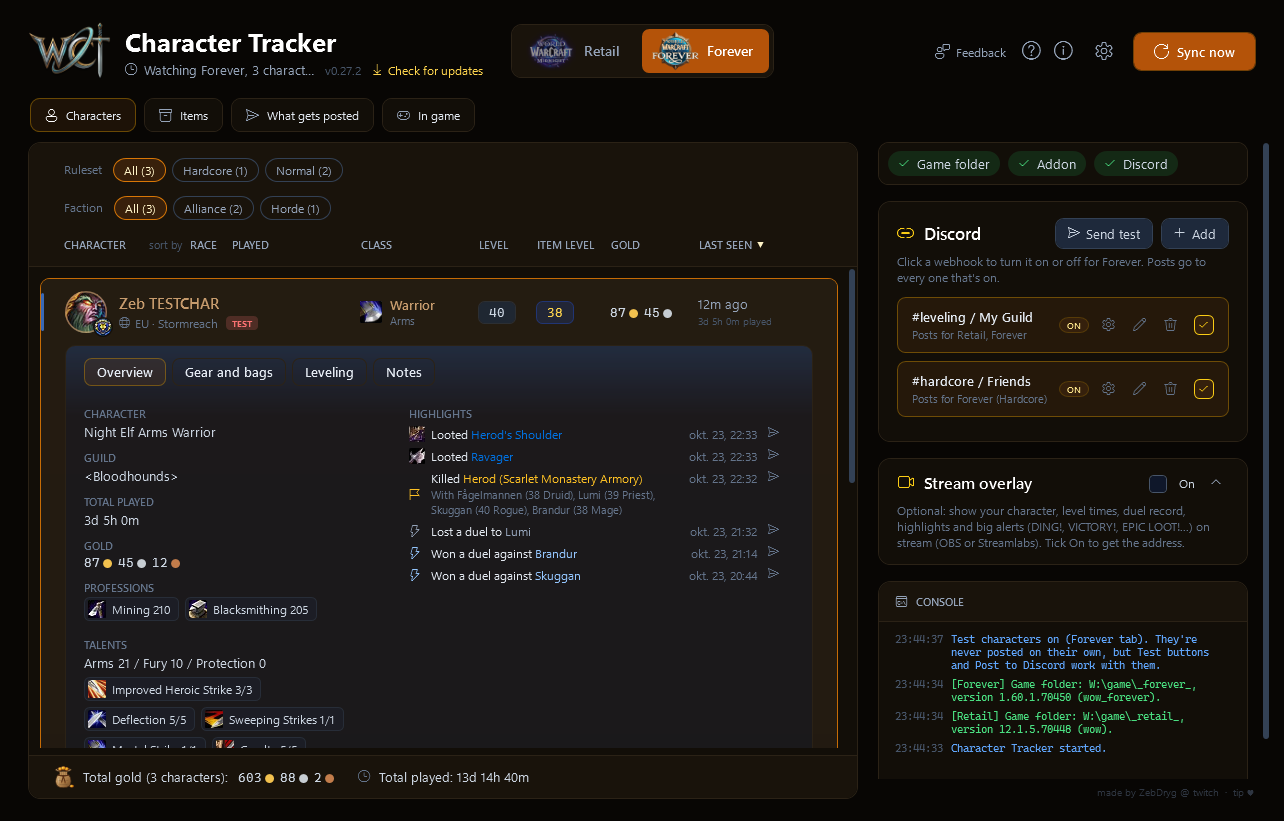
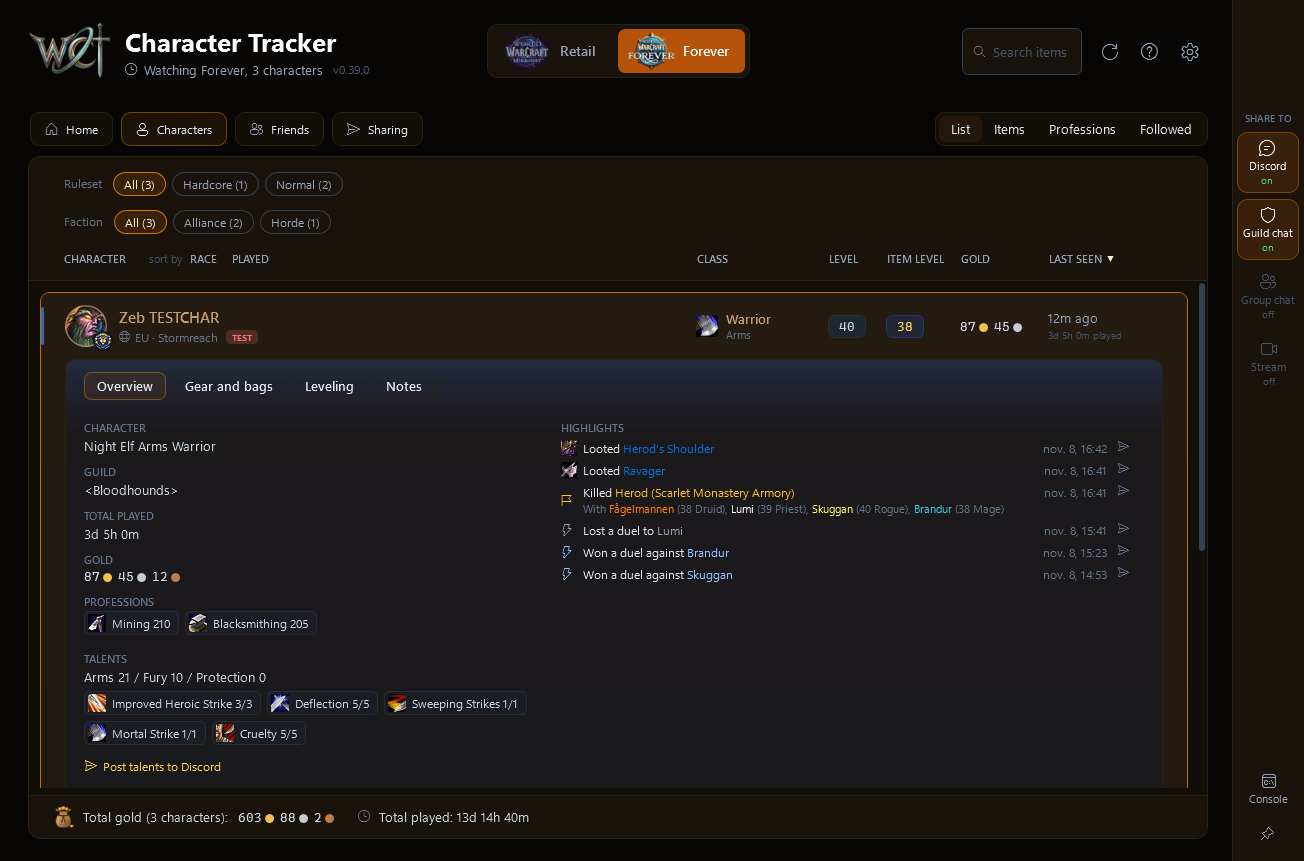
chore: release 0.39.0
App and addon to 0.39.0, with the changelog for the UX cleanup, dungeon
runs, asking friends for more and the 0.38.2 chat fix that never shipped
on its own. New guide pictures for Home, Sharing, Settings and the setup
helper, the rest retaken for the new layout, and the two pictures of the
old pages removed.

Claude-Session: 4ef4d2fd-667f-411a-965e-5164b0b2a70c

diff --git a/companion/WoWCharacterTracker/Ui/ScreenshotMode.cs b/companion/WoWCharacterTracker/Ui/ScreenshotMode.cs
@@ -39,7 +39,8 @@ static class ScreenshotMode
             if (Part(2) == "rename" && vm.Discord.Webhooks.FirstOrDefault() is { } w) w.IsEditing = true;
             if (Part(2) == "options" && vm.Discord.Webhooks.LastOrDefault() is { } o) o.IsExpanded = true;
             if (Part(2) == "removehook" && vm.Discord.Webhooks.FirstOrDefault() is { } rh) rh.ConfirmRemove = true;
-            if (Part(2) == "addhook") { vm.Discord.ShowAddWebhook = true; if (vm.SelectedFlavor is { } hooks) hooks.OpenPlace = "discord"; }
+            if (Part(2) == "addhook") vm.Discord.ShowAddWebhook = true;
+            if (Part(2) is "addhook" or "options" or "rename" or "removehook" && vm.SelectedFlavor is { } hooks) hooks.OpenPlace = "discord"; // the webhooks fold
             if (Part(2) == "testchars") { vm.ShowTestCharacters = true; await Task.Delay(1500); }
             // Test buttons need a character; without a game folder, the test characters stand in.
             if (Part(2) == "testall" && vm.SelectedFlavor is { HasCharacters: false, Flavor.HasRulesets: true }) { vm.ShowTestCharacters = true; await Task.Delay(1500); }

diff --git a/docs/GUIDE.md b/docs/GUIDE.md
@@ -25,6 +25,8 @@ Everything the app and the addon do, page by page. New here? The [README](../REA
    - **The addon**: click **Install** once to put the addon in that game's AddOns folder. After that the app keeps it up to date on its own, including the interface number after patches.
    - **Discord**: paste a webhook link (it explains how to get one). It's checked with Discord before saving. **Send test** shows you a sample post.
    - **How much gets shared**: Quiet, Normal or Everything (see [Sharing](#sharing)), and whether to tell your guild.
+
+   <img src="images/setup-helper.png" alt="Help me set it up, on the How much gets shared step" width="640">
 3. That's it. With **Open with World of Warcraft** on (the default), the app waits in the system tray and opens when you start WoW. When you close WoW it goes back to the tray, and it keeps tracking the whole time. Closing the window also sends it to the tray; right-click the tray icon to quit. Untick the option at the top to use it as a normal app instead.
 4. In game, type `/wct test`. The console in the app (the bottom icon on the right edge) should say instant posting works within a few seconds. The addon reminds you of `/wct help` when you log in, and **In game commands** in the app's **?** menu lists them all.
 
@@ -32,9 +34,11 @@ Everything the app and the addon do, page by page. New here? The [README](../REA
 
 Each game has a **Sharing** page: who hears about your moments, and which moments.
 
-- **At the top**, a switch each for **Discord** (off pauses this game's posts without forgetting your webhooks; what happens meanwhile isn't posted later), **Guild chat** and **Party / raid chat**. The same switches sit on the rail at the right edge of the window, under **Share to**, each saying **on**, **off** or **set up** (when something is missing).
+- **At the top**, a switch each for **Discord** (off pauses this game's posts without forgetting your webhooks; what happens meanwhile isn't posted later), **Guild chat**, **Party / raid chat** and the **Stream overlay**. **Webhooks** under Discord and **Overlay** under the stream open their settings right under the row, one at a time. The same switches sit on the rail at the right edge of the window, under **Share to**, each saying **on**, **off** or **set up** (when something is missing).
 - **How much gets shared**: **Quiet** (every 10th level, max level, epic loot and followed items), **Normal** (what a new player starts with: the game's defaults) or **Everything** (every moment and every level, with screenshots). Change anything below and it says **Custom**; picking a preset over custom choices asks first. The preset can be picked in game too, on the addon window's Sharing tab.
 - **Customize**: one table, a row per moment and a box per place: **Discord**, **Screenshot** (the addon takes one in game a moment after it happens, and it's attached to the post), **Guild**, **Group**, **Ask first** and **Stream** (the big alert on the overlay, shared by both games). Hover a row for its **Test** button, which posts a sample using the selected character. A dash means that place doesn't do that moment.
+
+  ![The Sharing page: the four places at the top, the presets and the Customize table](images/sharing.png)
 - **Discord** and **Stream overlay** panels: your webhooks (see [Discord](#the-app) under The app) and the overlay's address and looks.
 - **Advanced**: the level rule numbers, Mythic+ and profession steps, the filters (rares Bind on Equip only, end bosses first kill only, the group regex), **Name in posts** on Forever, the screenshot options and settings codes.
 
@@ -132,12 +136,15 @@ It all goes through Battle.net while you're both online: the character you're on
 
 ## The app
 
-![The app on the Forever tab, with a character's details open](images/characters.png)
+![Home: the last played character with today's numbers, and the recent moments with Share](images/home.png)
 
 The window has four tabs, **Home**, **Characters**, **Friends** and **Sharing**, a search box, sync, the **?** menu and the gear (Settings) at the top, and the rail at the right edge.
 
 - **Home**, where the app opens: the character you played last (**Playing now** with a green dot while the game runs), with its level, zone, how long the last level took against your average, item level, gold, played and time on this level, the time left to max on Forever, and **Share this character**. Under it, **Today**: levels, boss kills (keys on Retail), epics and posts since midnight, over all characters. On the right, **Recent moments**: the newest 30 dings, kills, loot, mounts, duels and milestones of every character, with real item icons and tooltips, each with **Share** (posts it to Discord) or **Posted**. The big ones (epic loot, max level, a hardcore death, a Mak'gora win) stand out. The numbers are the same ones the stream overlay shows.
 - **Characters**: every character you've logged in with the addon, with class, spec and its icon (or a role icon, tank, healer, or melee, ranged or caster damage, until the spec is known), level, item level, gold and when you last played. Click a column title to sort by it, again to flip it; race, played time and rating (Retail) sort from next to CHARACTER. The order is remembered per game. The bottom of the list shows the total gold and total played for the realm (Retail) or ruleset (Forever) you've filtered on. Hardcore characters are marked. Click one for its details, in four tabs:
+
+  ![The Characters tab on Forever, with a character's details open](images/characters.png)
+
   - **Overview**: guild, total played, gold, crests and your Mythic Keystone (Retail), professions, talents, stats (each with its icon), last zone (with an icon for what kind of place it is: dungeon, raid, battleground, city, town or the open world) and highlights. Boss kills and Mythic+ runs say who was there (names in class colors; on Retail with their spec, which the addon checks when a key starts), deaths what they cost. On Forever, talents are split into the class's three trees and every talent you picked is shown with its icon and rank. On Retail, **Open in Wowhead talent calculator** opens your build there. **Post talents to Discord** posts the build on its own: level, race and class, the points per tree, the talents picked and the Wowhead calculator link.
   - **Gear and bags**: what the character wears, laid out like the character window, then its bags and its bank (as of the last time you opened it), with icons, quality colors and Wowhead tooltips, and how many slots are free in each bag. Next to the gear: the sets you're wearing ("4/5") with each bonus and how many pieces it needs (the active ones lit green, tier bonuses for your spec), every Equip: and Use: effect, and your enchants. Your Equipment Manager sets can be picked above the gear, showing which pieces are in your bags, in the bank or missing. Click an item to open it on Wowhead. Crests, talents and looted items in the highlights show the same tooltips and links.
 
@@ -163,7 +170,7 @@ The window has four tabs, **Home**, **Characters**, **Friends** and **Sharing**,
 - **Filter**: chips at the top of the Characters and Items pages filter by realm on Retail and by ruleset (Hardcore, Self-found, Normal) on Forever. With lots of realms they wrap onto more lines.
 - **Discord** (on Sharing): add as many webhooks as you like. Click one to turn it on or off for the game tab you're on; posts go to every webhook that's on. The gear opens its options: which games it posts for, on Forever which rulesets (so a hardcore channel only gets hardcore characters), and which character tags (none picked means every character). Click the pencil to rename a webhook, like "#leveling / My Guild". Hover a webhook to see its masked link.
 
-  <img src="images/webhook-options.png" alt="Webhooks with their options: games and Forever rulesets" width="340">
+  <img src="images/webhook-options.png" alt="Webhooks under the Discord switch, one with its options open: games and Forever rulesets" width="640">
 
 - **Help me set it up**: on the first start it walks through the game folders, the addon, Discord and how much gets shared, and the **?** menu at the top starts it again any time. Every step can be skipped, Esc closes it.
 - **The ? menu**: Help me set it up, What's new, **In game commands** (hover it for the list, and what reaches the app right away or on `/reload`), Feedback and Check for updates.
@@ -174,21 +181,23 @@ The window has four tabs, **Home**, **Characters**, **Friends** and **Sharing**,
 - **Sync**: the round arrow at the top reads the game's saved data again and posts anything new (it also happens by itself). The icon spins while it works, and the console says what it found.
 - **Settings** (the gear at the top) is a page: the app on one side, the addon's in game options for the open game on the other (see [In game](#in-game)), and Uninstall.
 
+  <img src="images/settings.png" alt="The Settings page: the app on the left, in game for Forever on the right" width="640">
+
   **Animations** (on by default): characters unfold when opened, pages and games slide in from the side, and an orb flies between the game tabs. Untick it to have everything switch instantly. **Open with World of Warcraft** (the app waits in the tray and opens when the game starts), **Hide the window when the game closes**, **Install updates automatically** (off until you turn it on, see Updates below), and **Test characters**, three made-up Forever characters (Zeb, Fågelmannen and Goggo) to try everything without playing. They're never posted on their own. **Track Retail** / **Track Forever** turn a game off if you only play the other one: the app then doesn't look at it at all (no addon installed there, its data isn't read), and its tab offers to turn it back on or remove the addon from it. **Colors for** the open game picks its theme.
 - **Updates**: the app checks for a new version when it starts and every few hours. **Check for updates** next to the version number checks right away. A new version shows up as a filled **Update to v...** button at the top and a banner; **Update now** downloads it and restarts, and the addon mentions it in chat once when you next log in (not on /reload). With **Install updates automatically** on (Settings), a new version installs by itself instead, but never while World of Warcraft runs: it waits until the game has closed (and the app has read what the game saved), then restarts, in the tray if that's where it was. If that install fails, the banner says why and Update now stays there. **What's new** shows the notes from [CHANGELOG.md](../CHANGELOG.md). The **What's new** button at the top of the window shows the last three versions at any time, new features apart from fixes and tweaks, with a link to the full changelog.
 
   ![A new version available: the Update button at the top and the banner with Update now](images/update-available.png)
 
-- **Stream overlay** (the panel between Discord and the console): see [Streaming](#streaming).
+- **Stream overlay** (on Sharing, **Overlay** under its switch): see [Streaming](#streaming).
 - **Uninstall** (Settings, at the bottom): lists everything the app and the addon put on your PC, with every path and its size, and you pick what goes: the app (with its Start menu shortcut and the files Windows unpacked for it in your temp folder), the addon in each game, your character data in each game, and the app's settings and caches. **Keep my data** (the default) removes the app and the addon but keeps your characters and settings for later, **Remove everything** removes it all, **Only the app** leaves the addon running. Afterwards it shows what was removed, closes, and the app deletes itself a moment later. Close the game first, since it writes the addon's files again when it exits. Your screenshots, your webhooks in Discord and the game's Advanced combat logging setting stay either way.
 
   <img src="images/uninstall.png" alt="The Uninstall page: every part with its paths and size" width="640">
 
 ## Streaming
 
-Optional, and off until you turn it on: show your character, your records, your highlights and your big moments on stream, in OBS or Streamlabs. Everything is in the **Stream overlay** panel, between Discord and the console (click its title to fold it away).
+Optional, and off until you turn it on: show your character, your records, your highlights and your big moments on stream, in OBS or Streamlabs. Everything is on the **Sharing** page: tick **Stream overlay** at the top and click **Overlay** under it for its settings, which open across the page.
 
-<img src="images/stream-panel.png" alt="The Stream overlay panel: the addresses, background, what the card shows, highlights, alerts and what it counts" width="384">
+<img src="images/stream-panel.png" alt="The Stream overlay settings under the switch on Sharing: the addresses, background, size and colors" width="640">
 
 1. Tick **On** in the Stream overlay panel.
 2. Click **Copy all** for one source with everything (the address is `http://localhost:8721/`), or copy **Card**, **Highlights** and **Alert** one by one to add them as separate sources and place each where you like. A part on its own fills its whole Browser source, so its box in OBS fits it snugly: resize the source to resize the part. Give the alert a roomy source: its glow fades out softly at the edges.

diff --git a/CHANGELOG.md b/CHANGELOG.md
@@ -2,14 +2,28 @@
 
 The app shows the notes for a new version when it finds an update, and the newest three under **What's new**. Each release takes its notes from its section here. A section has an optional intro, then `### New` for features and `### Fixes and tweaks` for the rest, leave out the one that's empty.
 
-## v0.38.2
+## v0.39.0
 
-Update the addon with the app (it does this by itself) and /reload in game.
+A cleaner app: fewer buttons, a Home page, one Sharing page and a helper that sets everything up. Update the addon with the app (it does this by itself) and /reload in game.
+
+### New
+
+- **Home**: the character you're playing with today's levels, boss kills and loot, a feed of every character's newest moments (with a **Share** button for the ones not posted yet, and portraits on level-ups), and your friends by when they were last seen.
+- **Sharing**: What gets posted and In game are one page now. Discord, guild chat, party / raid chat and the stream overlay sit side by side at the top, and **Webhooks** and **Overlay** open their settings right under them. Pick **Quiet**, **Normal** or **Everything**, or open **Customize** for one table with a row per moment and a box for Discord, screenshot, guild, group, ask first and stream alerts. Test shows on the row under your mouse, and the rules under a moment (every 10th level, profession steps) jump to where you change them.
+- **Pause Discord** per game without touching your webhooks. What happens while paused isn't posted later.
+- **Help me set it up** replaces the tour: game folders, the addon, Discord and how much gets shared, one step at a time. It's in the **?** menu, with What's new, the in-game commands and feedback.
+- **Three tabs and a rail**: Home, Characters (with List, Items, Professions and Followed inside), Friends and Sharing. The right side is a slim rail of quick switches for Discord, guild chat, group chat and the stream overlay, each saying on or off; the console slides out from it. Settings is its own page from the gear, and you can search items from the header.
+- **Dungeon runs** (Forever, off by default): one Discord post per 5-player dungeon run instead of one per boss and item, with the time, every boss, the group by role and who got what.
+- **The addon window** has four tabs: Sharing (pick Quiet, Normal or Everything in game), Friends, Note and Settings. Reload reminders are one choice: Off, Gentle or Every chance. Under Shared with you it says who shares what with you and what you share back, with an **Options** button.
+- **Ask a friend for more**, like their map position or gold: pick it under **Ask them to share** in a friend's Options and click **Ask**. Their box asks with those ticked.
+- **Guild and group chat for rare loot** gets its own switch, and the in-game ask box can ask about any moment Discord skips, not only bosses and gear: level-ups, mounts, wins, milestones, Mythic+ runs and deaths.
 
 ### Fixes and tweaks
 
 - Guild and group chat lines now actually go out. The game moved its chat function and the addon was still calling the old one, so nothing was said. Lines that come up during a boss fight now wait until the game allows chat again.
-
+- The addon shows its minimap icon in the game's addon list.
+- The reload box on a flight closes when you land.
+- Screenshots for more moments: max level, rare loot, battlegrounds and profession steps.
 ## v0.38.1
 
 Update the addon with the app (it does this by itself) and /reload in game.
